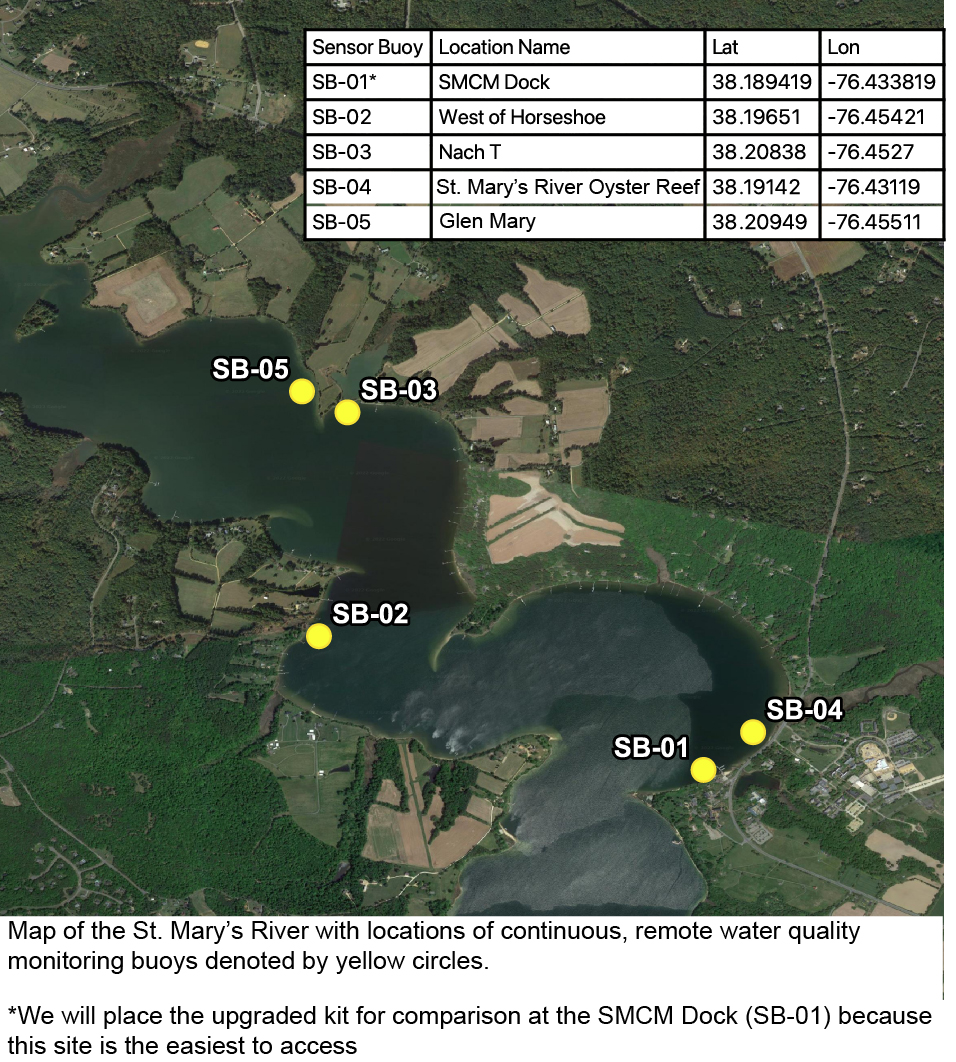
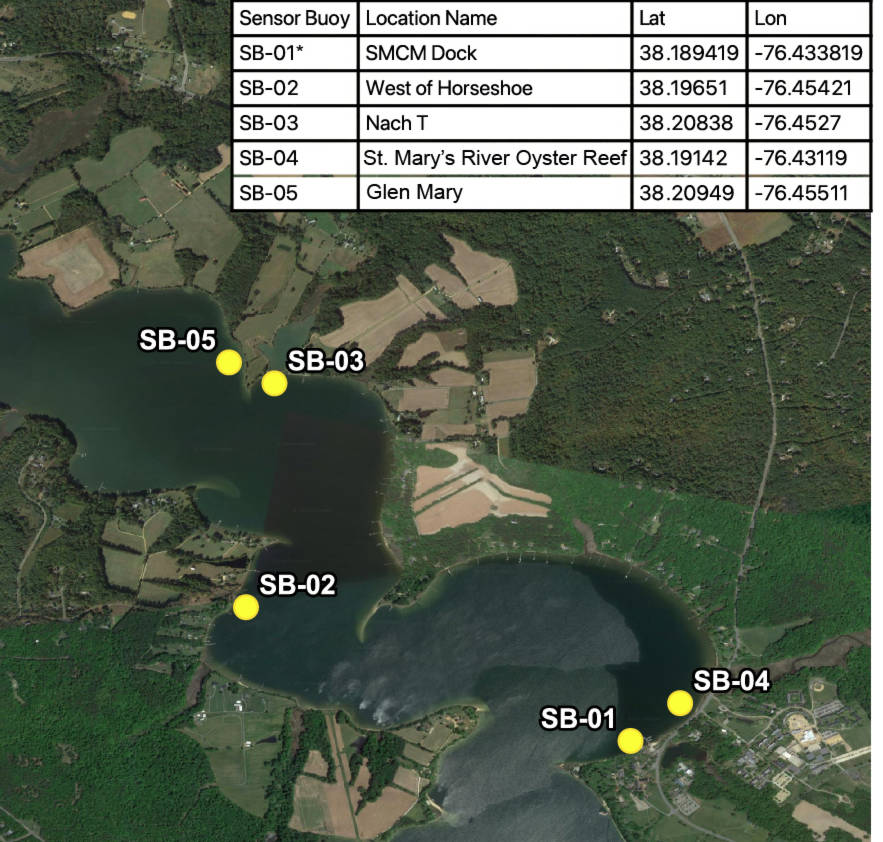
Cropped SMRWA SB locations pic; removed comment.

diff --git a/pages/1_SMRWA.py b/pages/1_SMRWA.py
@@ -11,7 +11,7 @@ with page_header:
     st.subheader("Location of the 2023 Study Sites")
     st.image('images/SMRWA_Buoy_Locations.jpg',
              caption='BOB locations for the 2023 study season')
-    st.markdown(":red[Make the picture smaller and add better explanatory text]")
+    # st.markdown(":red[Make the picture smaller and add better explanatory text]")
 
 with status_sect:
     st.subheader('Current BOB Status')
